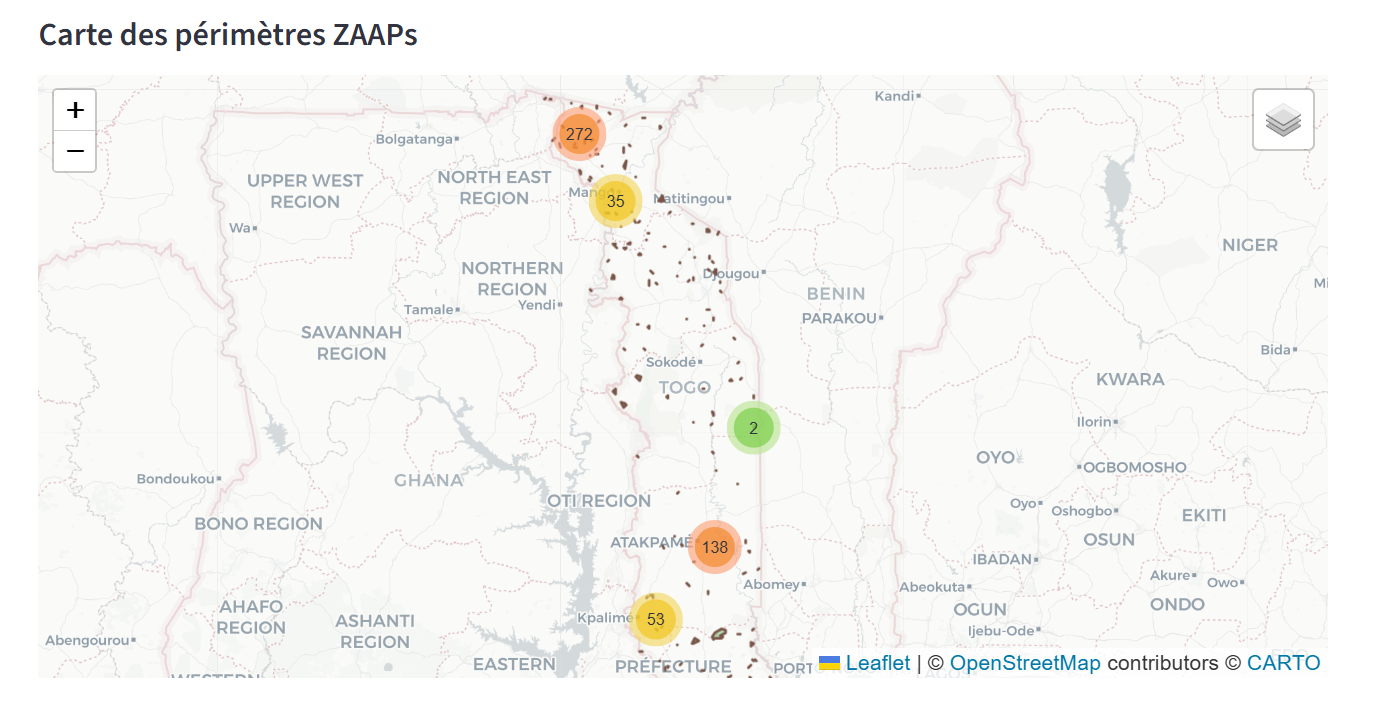
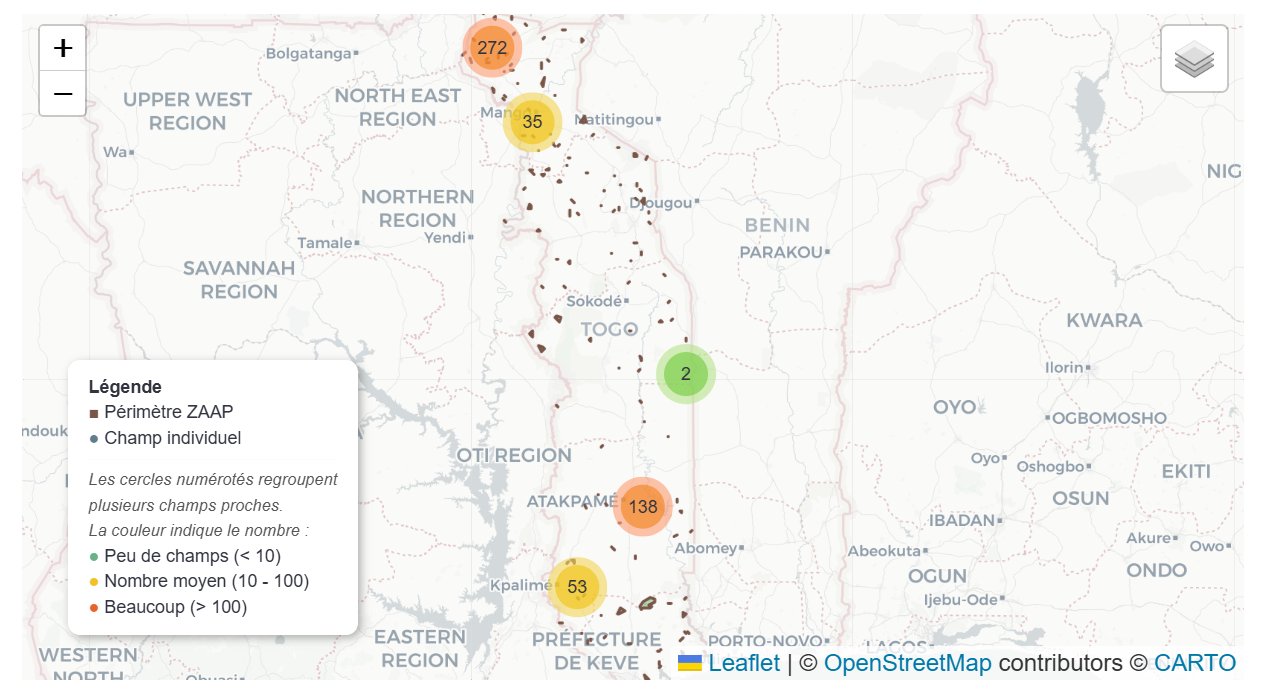
Ajout des legendes sur certaines cartes et quelques ajustements

diff --git a/app.py b/app.py
@@ -284,7 +284,17 @@ with tab2:
             barmode="stack",
             height=400,
         )
-        fig_stack.update_layout(legend=dict(orientation="h", yanchor="bottom", y=1.02))
+        fig_stack.update_layout(
+            legend=dict(
+                orientation="v",
+                yanchor="middle",
+                y=0.5,
+                xanchor="left",
+                x=1.02,
+                font=dict(size=11),
+            ),
+            margin=dict(r=160),
+        )
         st.plotly_chart(fig_stack, use_container_width=True)
 
     with c2:
@@ -481,6 +491,20 @@ with tab3:
             ),
         ).add_to(coop_cluster)
     coop_cluster.add_to(m_coop)
+    legend_coop = """
+    <div style="position:fixed;bottom:30px;left:30px;z-index:1000;background:white;
+         padding:10px 14px;border-radius:8px;box-shadow:2px 2px 6px rgba(0,0,0,.3);font-size:12px;">
+    <b>Légende</b><br>
+    <span style="color:#3F51B5">●</span> Coopérative agricole<br>
+    <hr style="margin:5px 0">
+    <i style="font-size:11px;color:#555;">Les cercles numérotés regroupent<br>
+    plusieurs coopératives proches.<br>
+    La couleur indique le nombre :</i><br>
+    <span style="color:#6ab187">●</span> Peu de coopératives (&lt; 10)<br>
+    <span style="color:#f0c228">●</span> Nombre moyen (10 - 100)<br>
+    <span style="color:#e8622a">●</span> Beaucoup (&gt; 100)
+    </div>"""
+    m_coop.get_root().html.add_child(folium.Element(legend_coop))
     st_folium(m_coop, width="100%", height=400, returned_objects=[])
 
 # ==============================================================================
@@ -589,6 +613,21 @@ with tab4:
         ).add_to(zaap_champ_cluster)
     zaap_champ_cluster.add_to(m_zaap)
     folium.LayerControl().add_to(m_zaap)
+    legend_zaap = """
+    <div style="position:fixed;bottom:30px;left:30px;z-index:1000;background:white;
+         padding:10px 14px;border-radius:8px;box-shadow:2px 2px 6px rgba(0,0,0,.3);font-size:12px;">
+    <b>Légende</b><br>
+    <span style="color:#795548">■</span> Périmètre ZAAP<br>
+    <span style="color:#607D8B">●</span> Champ individuel<br>
+    <hr style="margin:5px 0">
+    <i style="font-size:11px;color:#555;">Les cercles numérotés regroupent<br>
+    plusieurs champs proches.<br>
+    La couleur indique le nombre :</i><br>
+    <span style="color:#6ab187">●</span> Peu de champs (&lt; 10)<br>
+    <span style="color:#f0c228">●</span> Nombre moyen (10 - 100)<br>
+    <span style="color:#e8622a">●</span> Beaucoup (&gt; 100)
+    </div>"""
+    m_zaap.get_root().html.add_child(folium.Element(legend_zaap))
     st_folium(m_zaap, width="100%", height=450, returned_objects=[])
 
 # ==============================================================================
@@ -716,6 +755,14 @@ with tab5:
     pep_group.add_to(m_serv)
 
     folium.LayerControl().add_to(m_serv)
+    legend_serv = """
+    <div style="position:fixed;bottom:30px;left:30px;z-index:1000;background:white;
+         padding:10px 14px;border-radius:8px;box-shadow:2px 2px 6px rgba(0,0,0,.3);font-size:12px;">
+    <b>Légende</b><br>
+    <span style="color:#009688">●</span> Marché agricole<br>
+    <span style="color:#FF9800">●</span> Pépinière agricole
+    </div>"""
+    m_serv.get_root().html.add_child(folium.Element(legend_serv))
     st_folium(m_serv, width="100%", height=450, returned_objects=[])
 
 # --- Footer -------------------------------------------------------------------